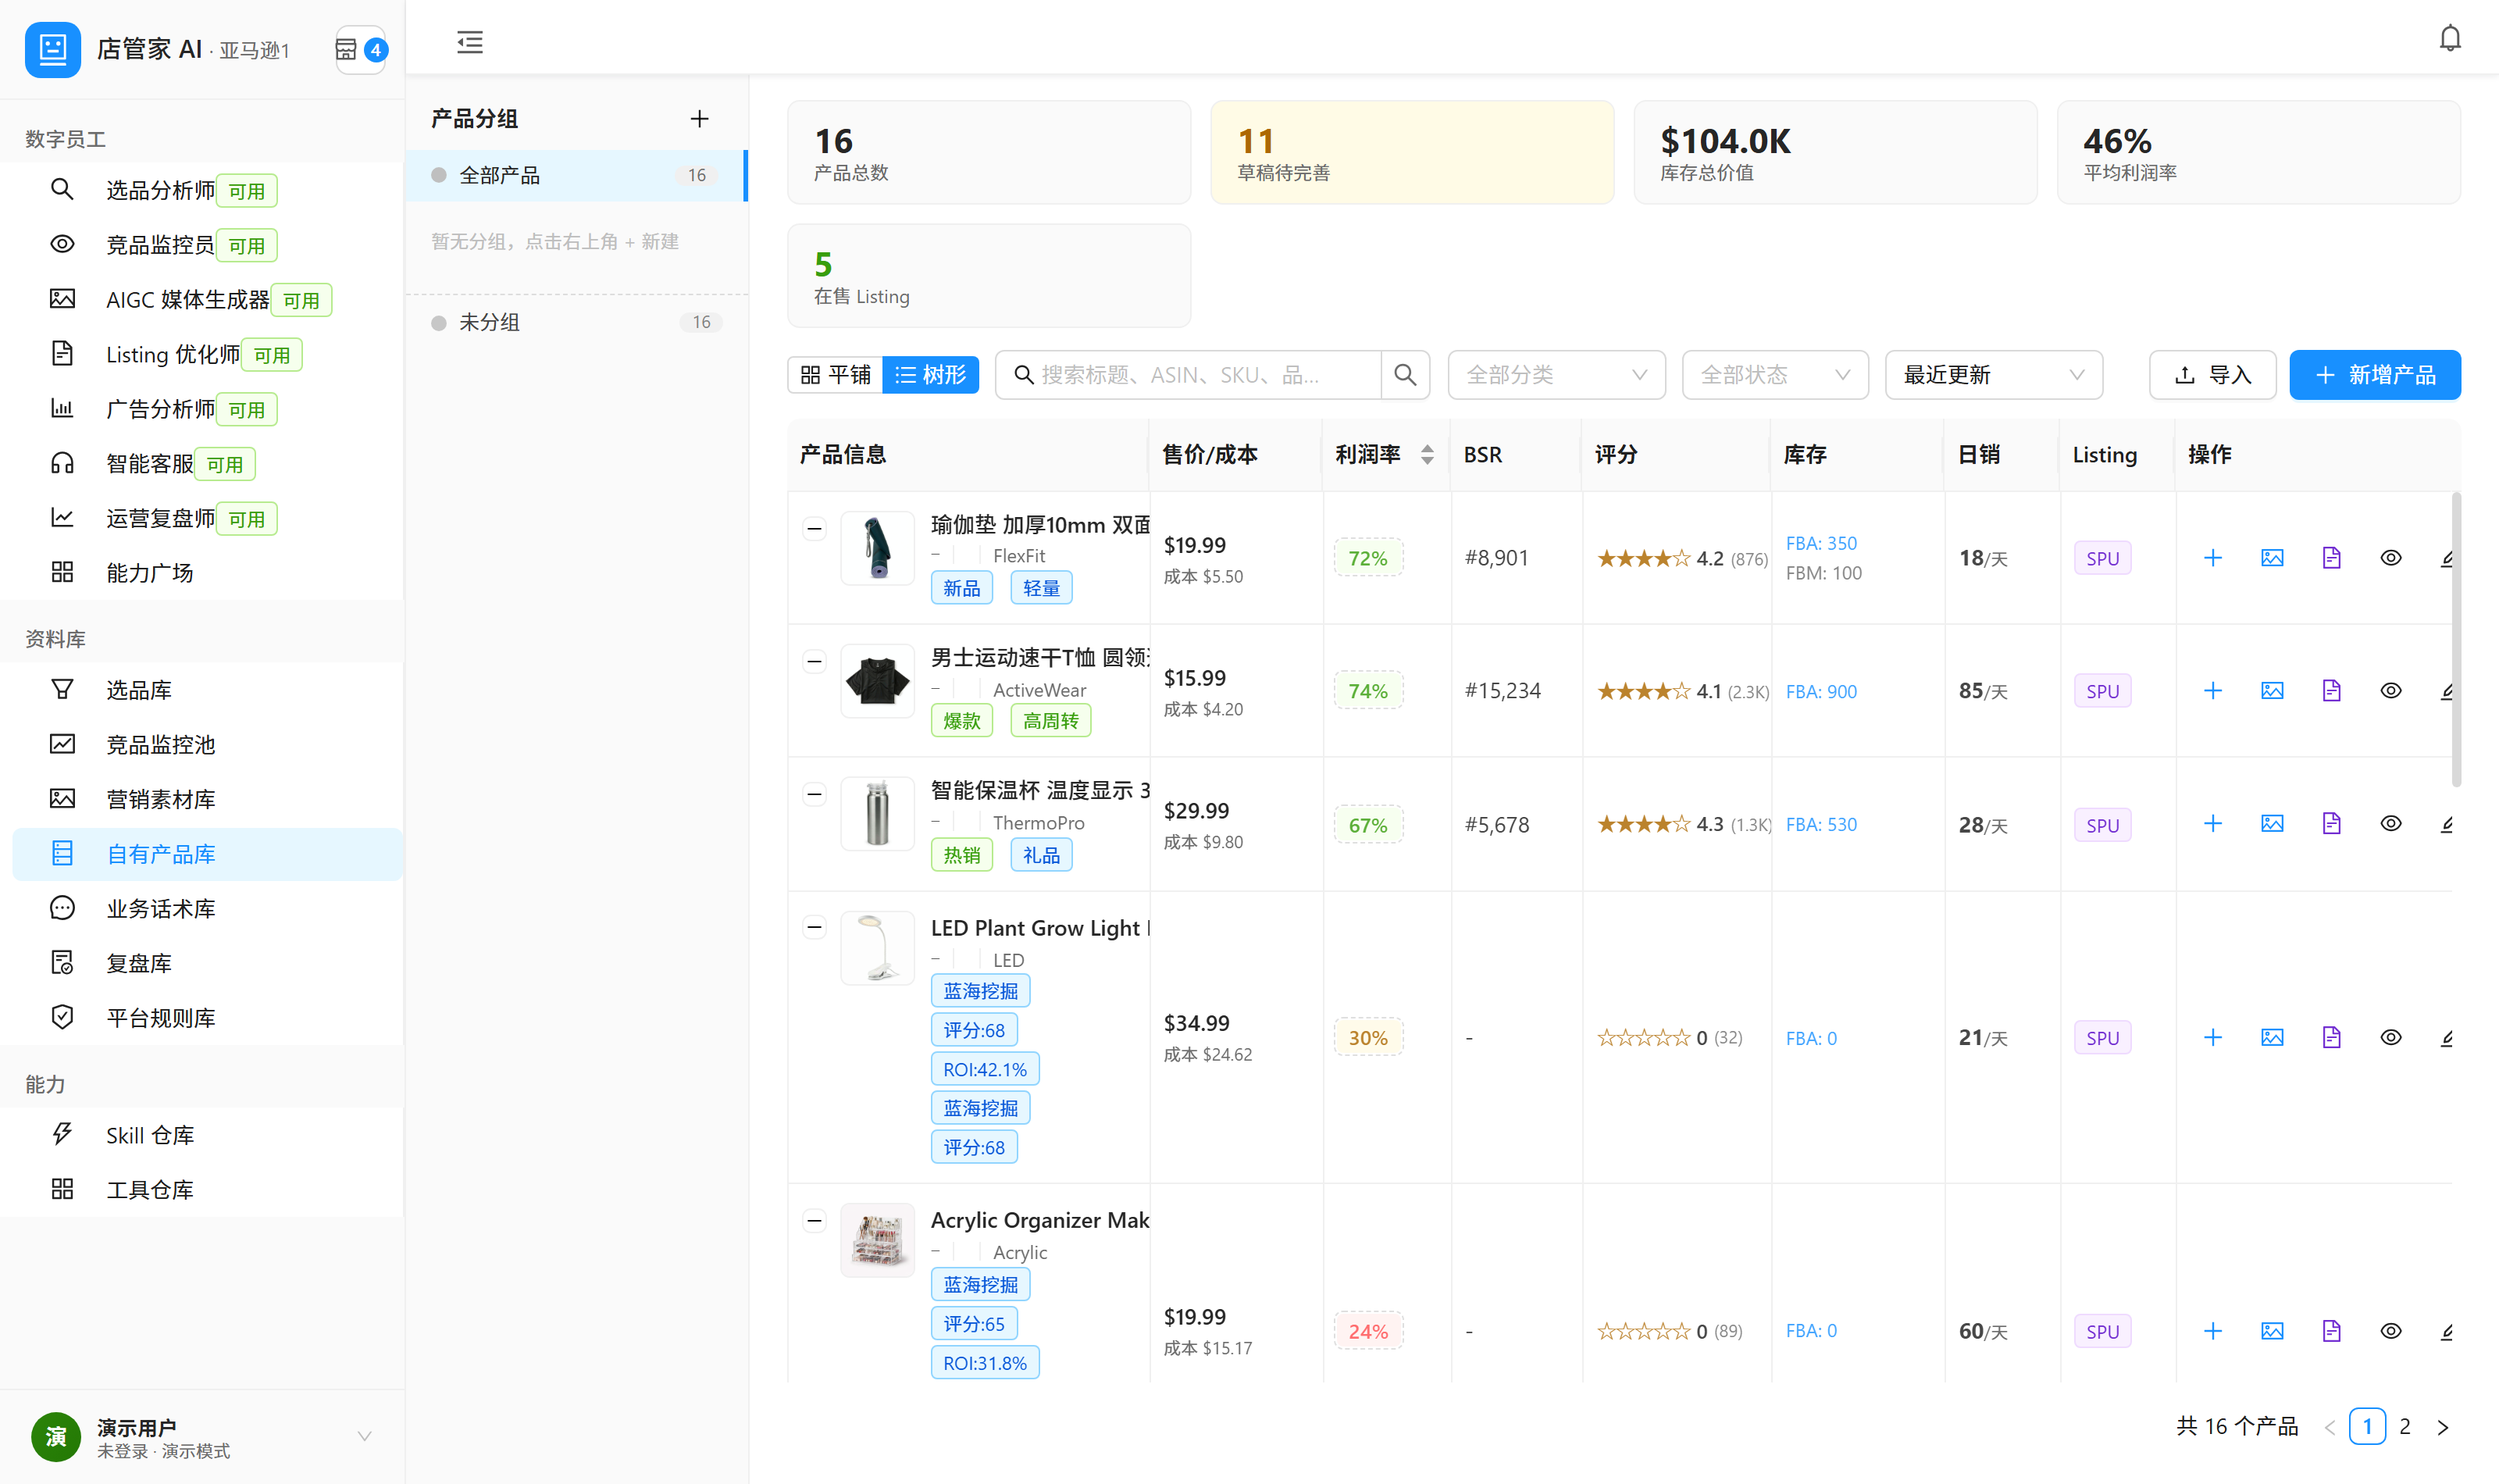
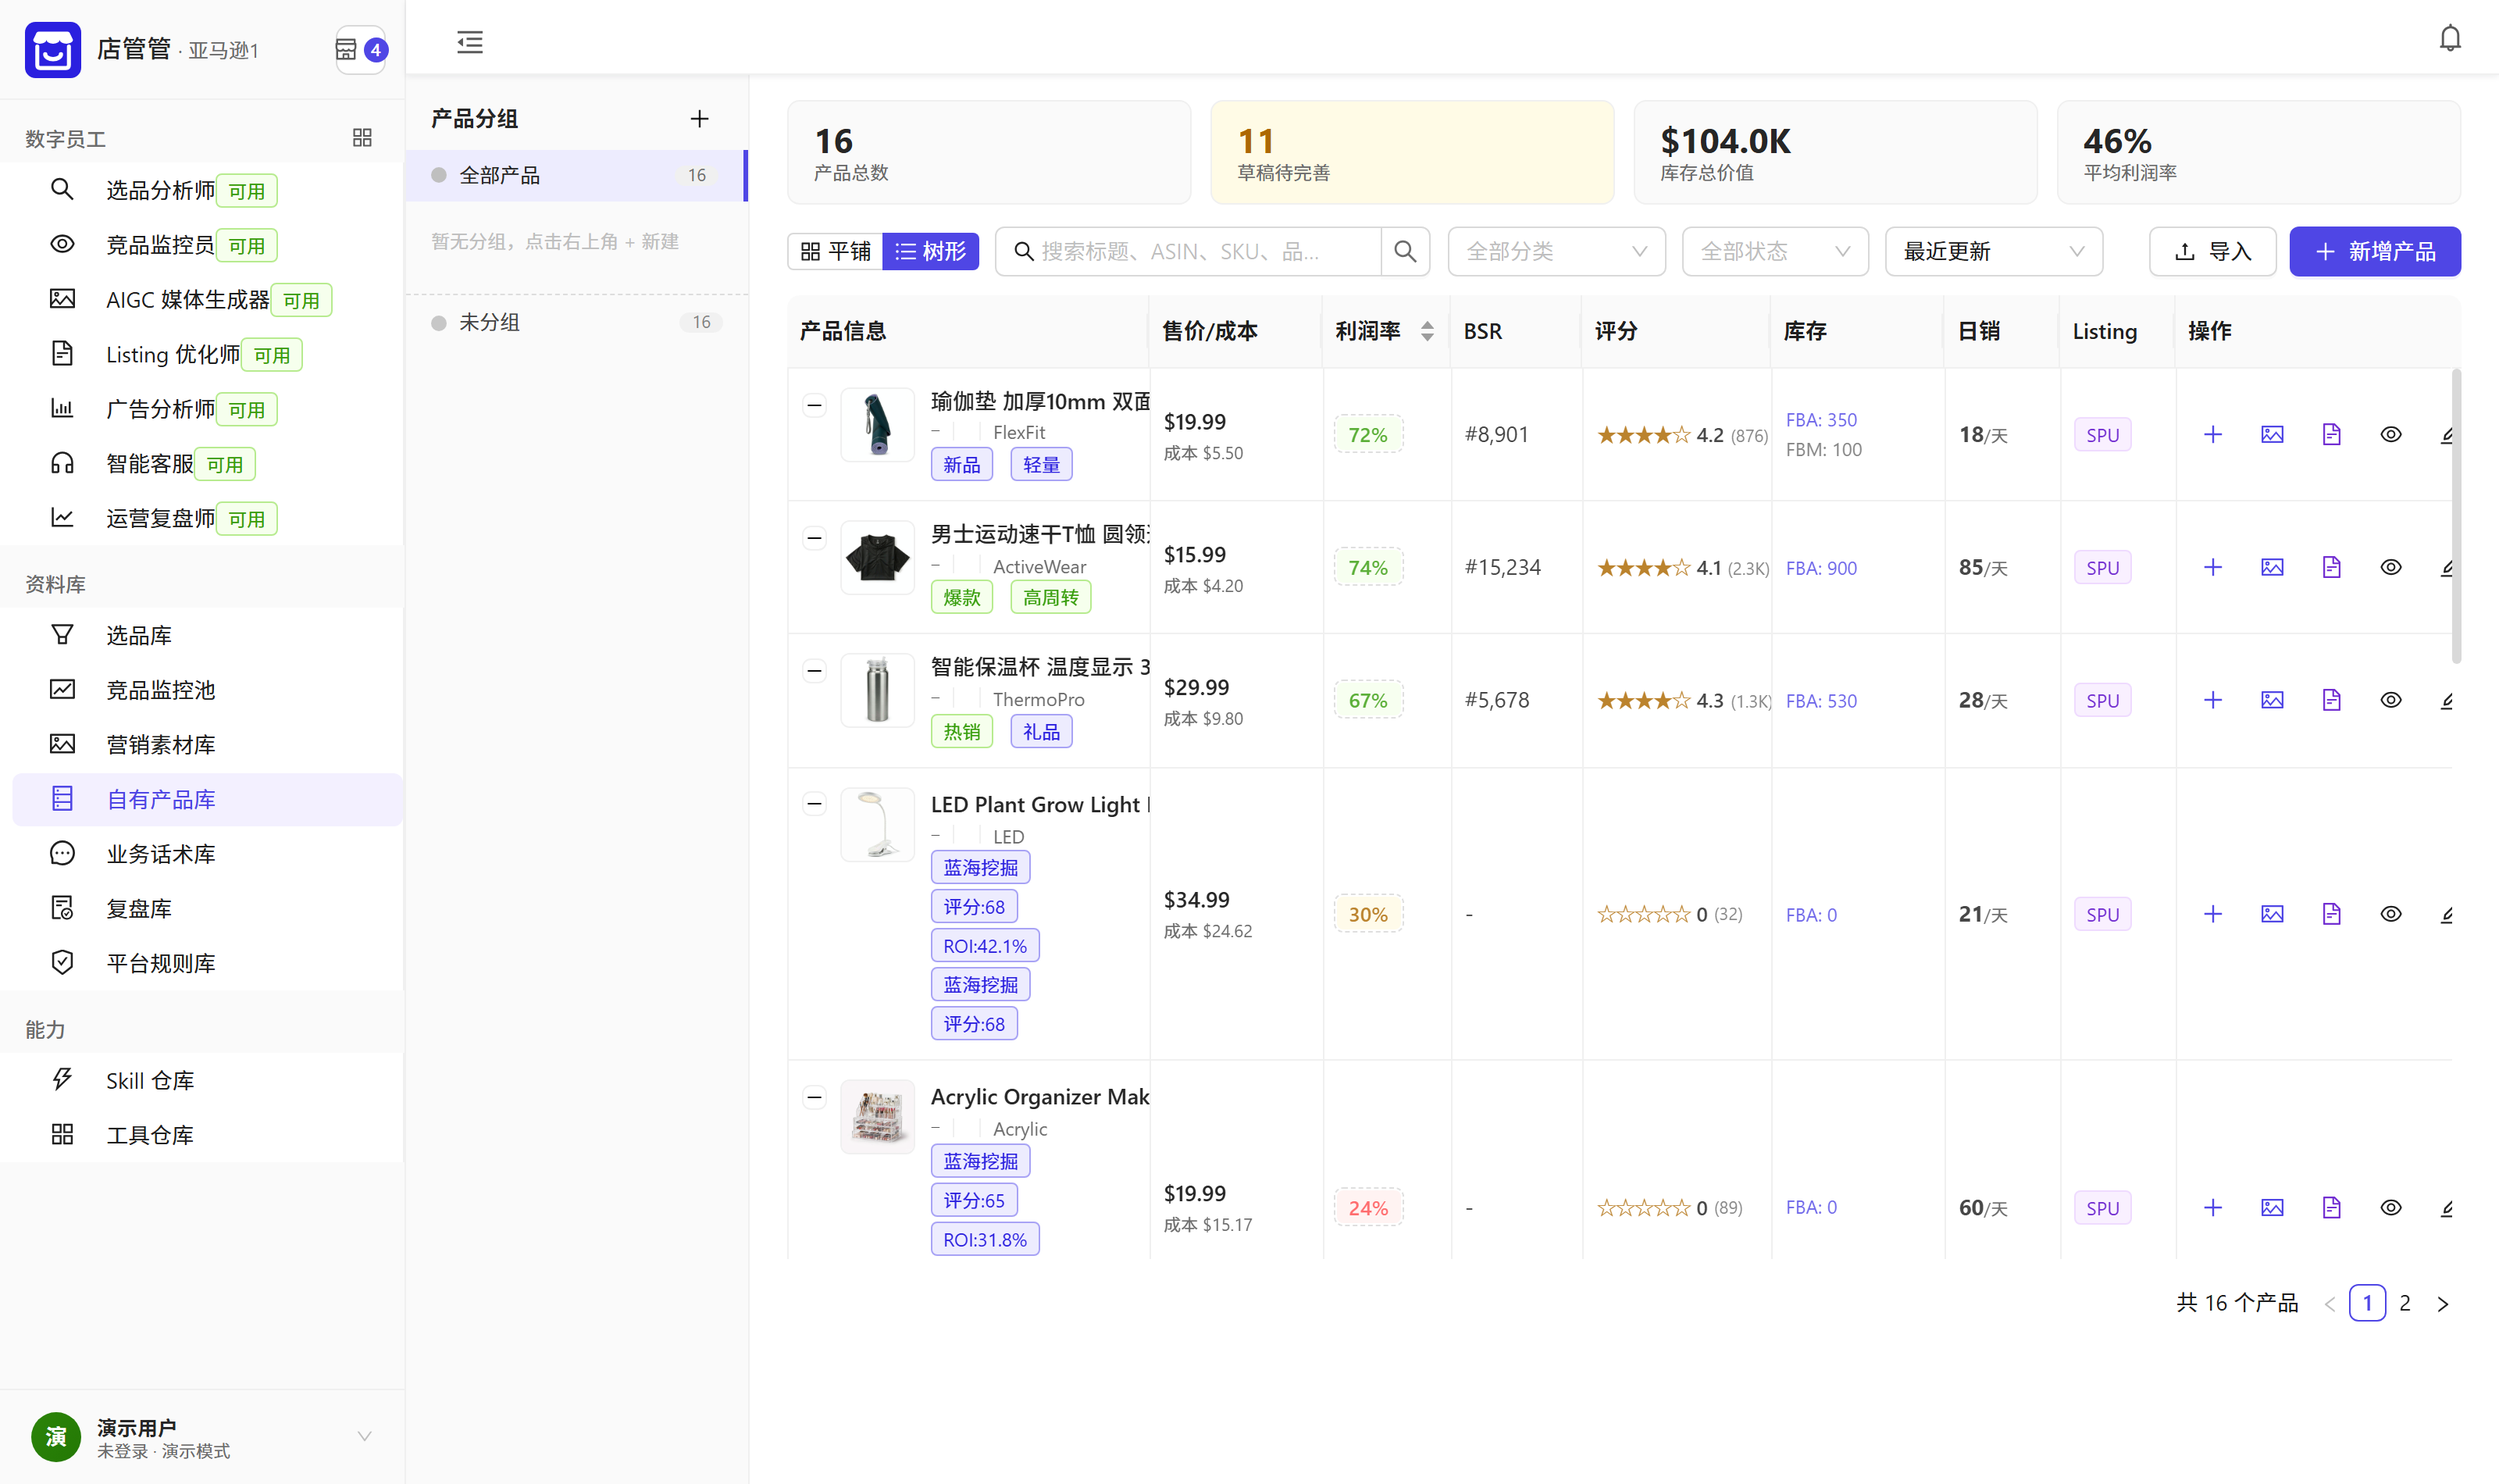
feat(site r394): 官网落地 —— 删不存在的「AI 视频生成」×3 份副本、复盘库补第 7 屏、7 张截图全部重抓（旧图仍写着旧品牌名「店管家 AI」）

diff --git a/site/index.html b/site/index.html
@@ -6,7 +6,7 @@
     <title>店管管 · 跨境电商全链路 AI 运营平台</title>
     <meta
       name="description"
-      content="面向跨境电商卖家与运营团队的 AI 运营平台：选品、竞品监控、AIGC 素材、Listing 优化、广告分析、智能客服、经营复盘，七个数字员工各管一段，决策依据留在同一个空间里。"
+      content="面向跨境电商卖家与运营团队的 AI 运营平台：选品、竞品监控、AIGC 素材、Listing 优化、广告分析、智能客服、经营复盘，七个数字员工各管一段，判断依据与复盘报告都留在同一个空间里。"
     />
     <link rel="icon" type="image/svg+xml" href="./assets/favicon.svg?v=383" />
     <link rel="stylesheet" href="./assets/style.css" />
@@ -75,7 +75,8 @@
           <p class="lead">
             从选品、竞品监控、素材生产、Listing 优化、广告分析、智能客服，
             到经营复盘 —— 七个数字员工各管一段，判断依据都沉淀在同一个空间里，
-            而不是散在几个表格与聊天记录里。
+            而不是散在几个表格与聊天记录里；
+            一段经营跑完，它会自己收成一份带结论的复盘报告。
           </p>
           <div class="cta-row">
             <a class="btn btn-primary" href="#contact">申请开通试用</a>
@@ -199,7 +200,7 @@
               <span class="tag">素材</span>
               <h3>AIGC 媒体生成器</h3>
               <p>
-                AI 商品绘图、主图诊断、短视频分镜、AI 视频生成。
+                AI 商品绘图、主图诊断、短视频脚本与分镜。
                 产出的素材按商品归档，下次不必从头再做一遍。
               </p>
             </div>
@@ -231,7 +232,7 @@
               <span class="tag">复盘</span>
               <h3>运营复盘师</h3>
               <p>
-                周报与月度复盘、广告归因、商品表现、利润审计。
+                周报与月度复盘、广告归因、商品表现、库存健康、利润审计。
                 把一段时间的经营结果收成一份可以往下走的结论。
               </p>
             </div>
@@ -327,7 +328,7 @@
                 src="./assets/shots/studio.png"
                 loading="lazy" decoding="async"
                 width="1600" height="950"
-                alt="营销素材库：按分组归类的素材墙，含 AI 生成的商品图与短视频，每个素材带所属商品、平台标签与类型标签。"
+                alt="营销素材库：按分组归类的素材墙，含 AI 生成的商品图与视频素材，每个素材带所属商品、平台标签与类型标签。"
               />
               <figcaption>真实产品界面 · 生成的素材按商品归档 · 演示环境数据</figcaption>
             </figure>
@@ -360,6 +361,32 @@
                 alt="业务话术库：话术表格含问题、分类、优先级、状态、被引用次数与更新时间，覆盖账户、支付、退换货、商品质量、物流等分类。"
               />
               <figcaption>真实产品界面 · 引用次数来自实际客服会话 · 演示环境数据</figcaption>
+            </figure>
+          </div>
+
+          <div class="split reveal" style="margin-top: 62px">
+            <div class="split-body">
+              <h3>一次复盘归档一条，下一期拿它当基准</h3>
+              <p>
+                复盘不止是一份报告，更是<b>一条带日期的记录</b>：类型、周期、期末日、
+                一句话结论。同一天重复归档不会堆两份（按店铺 + 类型 + 周期 + 期末日只留一条）；
+                下一期开工时，Agent 拿这期的结论做对比，而不是从零开始回忆。
+              </p>
+              <ul class="points">
+                <li><b>六类报告</b>：周报、月度复盘、广告归因、商品表现、库存健康、利润审计 —— 都是把已有数据算出来的，不是让模型写一段话。</li>
+                <li><b>一句话结论</b>：归档时就写清这期赚了多少、卡在哪一步。</li>
+                <li><b>可导出</b>：指标与明细能整表导出，交给财务或客户对账。</li>
+              </ul>
+            </div>
+            <figure class="frame split-media">
+              <div class="frame-bar"><i></i><i></i><i></i><em>复盘库</em></div>
+              <img
+                src="./assets/shots/reviews.png"
+                loading="lazy" decoding="async"
+                width="1600" height="950"
+                alt="复盘库：七条复盘按期末日倒序排列，每行含类型（经营概览、月度复盘、广告归因、商品表现、库存健康、利润审计）、周期、期末日、一句话结论与归档时间。"
+              />
+              <figcaption>真实产品界面 · 按店铺隔离，换店铺就换内容 · 演示环境数据</figcaption>
             </figure>
           </div>
 

diff --git a/frontend/src/stores/agent.ts b/frontend/src/stores/agent.ts
@@ -51,7 +51,7 @@ const AGENT_LIST: Agent[] = [
     id: 'aigc-media',
     name: 'AIGC 媒体生成器',
     icon: PictureOutlined,
-    description: 'AI商品绘图、主图诊断、短视频分镜、AI视频生成',
+    description: 'AI商品绘图、主图诊断、短视频脚本与分镜',
     status: 'active',
   },
   // 4. Listing 优化师

diff --git a/backend/modules/skills/agents.py b/backend/modules/skills/agents.py
@@ -77,7 +77,7 @@ AGENT_CATALOG: List[Dict[str, str]] = [
         "name": "AIGC 媒体生成器",
         "id": "aigc-media",
         "title": "AIGC 媒体生成器",
-        "description": "AI 商品绘图、主图诊断、短视频分镜、AI 视频生成",
+        "description": "AI 商品绘图、主图诊断、短视频脚本与分镜",
     },
     {
         "name": "ListingGenerator",
